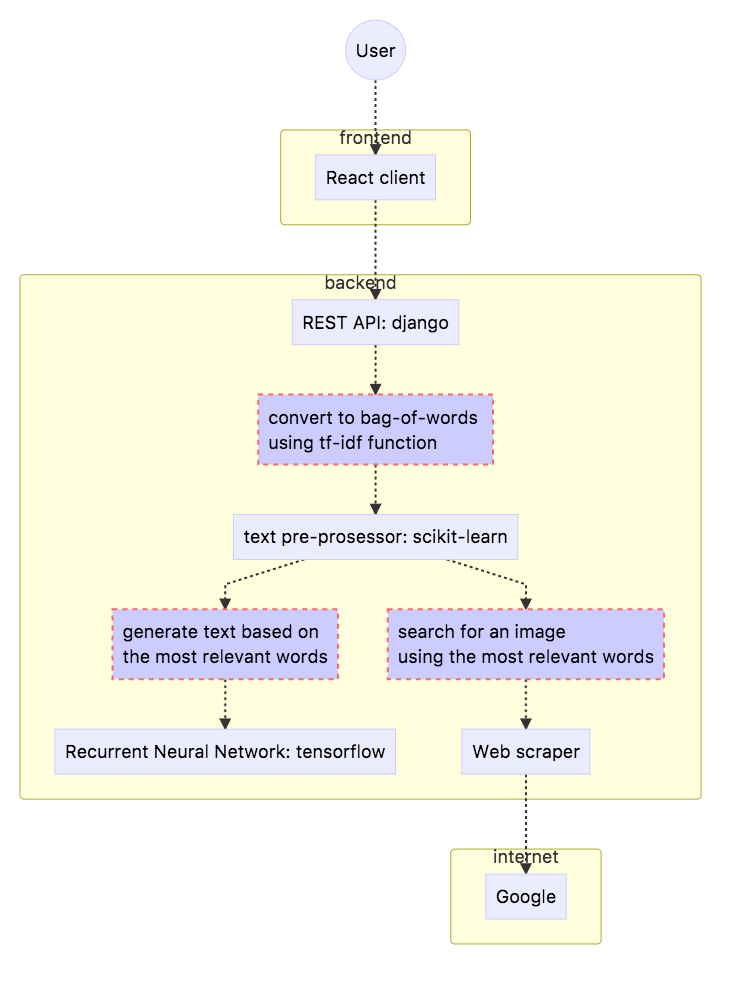
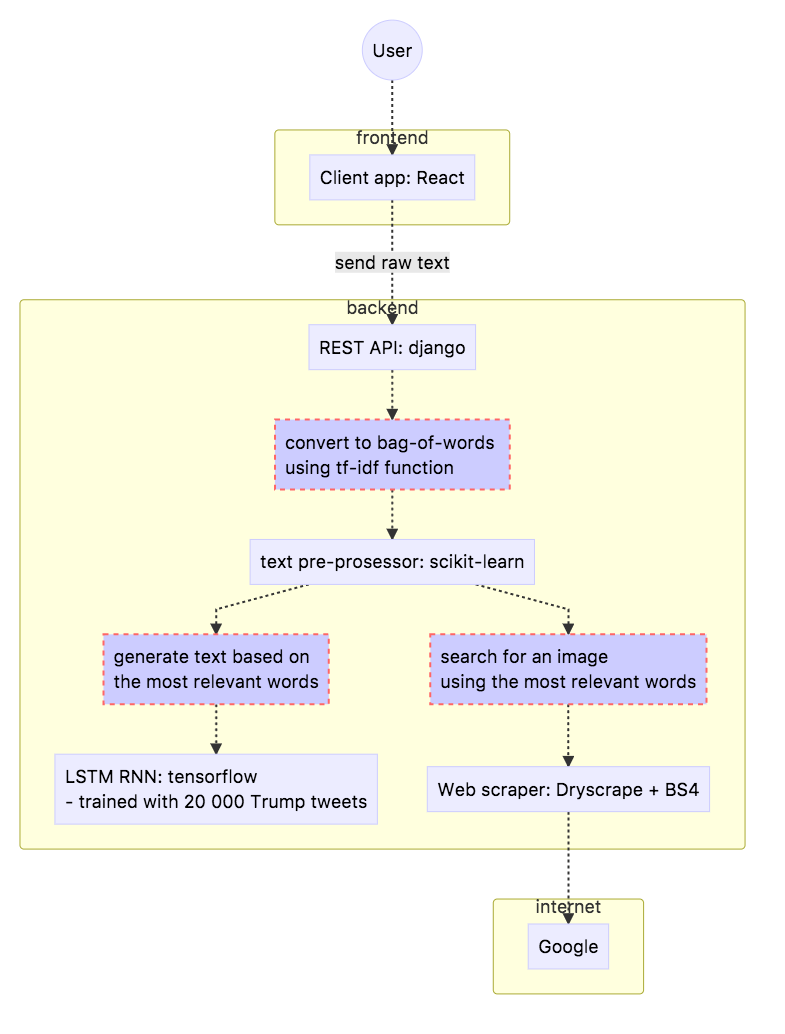
edit readme

Changed region(s): [[0.0, 0.0305, 0.9622, 0.8232], [0.5897, 0.8537, 0.8381, 0.9756]]

diff --git a/README.md b/README.md
@@ -2,10 +2,46 @@
 
 ## About
 Trumpulator is a hackathon project developed in Junction 2017.
+It is a web application that, based on the contents of given text, 
+generates a Twitter tweet just as it would have be written by Donald Trump. 
+
+Live application at: http://pulator.veikko.it/
+
+## The challenge
+
+> William Shakespeare said “brevity is the soul of wit”. With access to 
+more computing power than ever before, machine learning is poised to 
+revolutionize news. People in the digital generation want to consume more 
+news, but they don’t always have time to do so. Help us help them by using 
+the power of AI to convert short news articles into condensed, easy-to-digest 
+summaries or headlines, along with a use case and working demo (web app). 
+Give us the gist of it.
+
+## Solution
+
+Our solution is a web application that takes raw text, such as a news article
+or a blog post, as input from the user. It generates a tweet as @fakeDonaldTrump
+about the text using a <i>long short-term memory recurrent neural network </i> model
+(LSTM RNN) which we trained with a dataset of 20k tweets by Donald Trump.
+ 
+
+![Trumpulator](screenshot.png)
+
 
 ## Architecture
 
-<!-- [Flow diagram](diagram.png) -->
+As the front-end interface we have a React application which communicates with
+a Django powered REST service. On the server, the input text is first presented 
+as a bag-of-words using tf-idf algorithm from scikit-learn Python library. Following
+that, our application picks the three most important words and feeds them to a LSTM RNN
+model. The model is powered by TensorFlow library and we took the model code from 
+[this github repository](https://github.com/hunkim/word-rnn-tensorflow).
+
+In addition to generating the text, the application attaches a picture to the 
+tweet. The picture is scraped from google image search using the three most 
+important key words as the search query.
+
+![Flow diagram](diagram.png)
 
 ## Team
 - Veikko Kovanen
